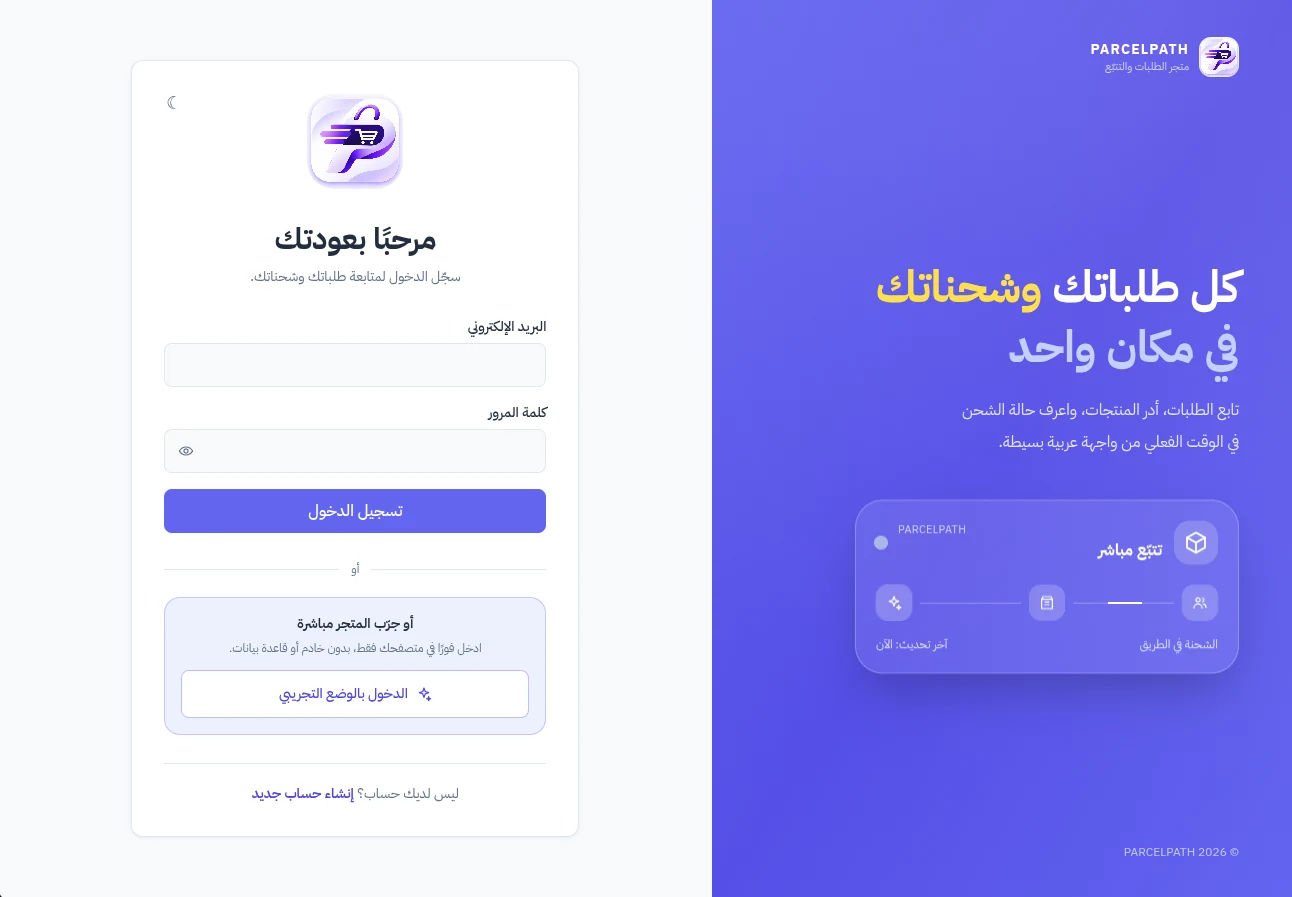
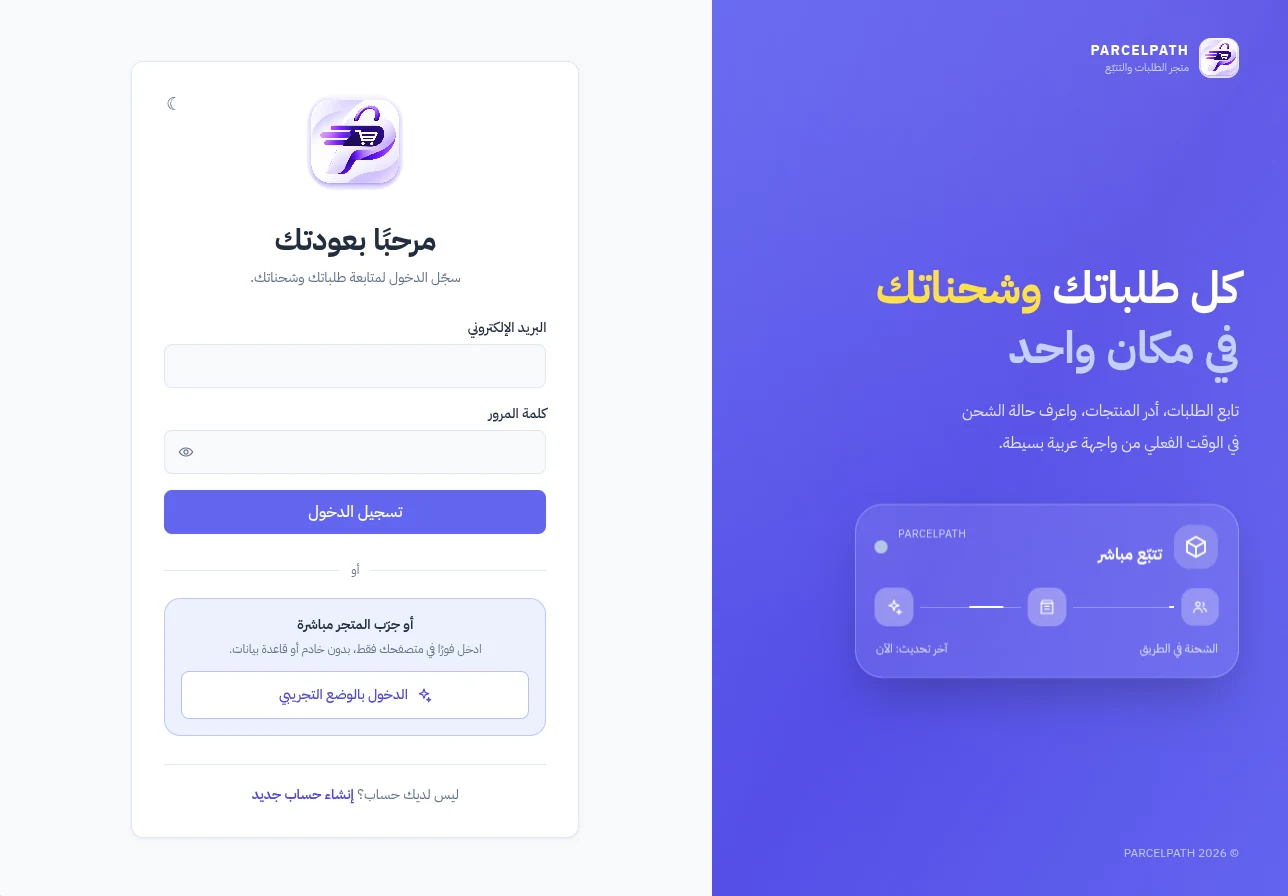
Add PARCELPATH stats and replace light screenshot

diff --git a/index.html b/index.html
@@ -288,9 +288,10 @@
 <div class="shot"><img class="lt" src="assets/orvia-light.webp" width="1638" height="999" alt="ORVIA grocery point of sale and inventory interface in light mode" loading="lazy" decoding="async"><img class="dk" src="assets/orvia-dark.webp" width="1638" height="999" alt="ORVIA grocery point of sale and inventory interface in dark mode" loading="lazy" decoding="async"></div></article>
 <article class="card rv"><h3>PARCELPATH</h3><p class="tag">An order and shipment tracking platform</p>
 <p>An Arabic RTL storefront and admin dashboard for orders and shipments. FastAPI handles products, inventory with row locks, idempotent order creation, a restricted status machine, and sales reports, while React and strict TypeScript power the interface.</p>
+<ul class="stats"><li><b>2</b>independent apps</li><li><b>7</b>UI areas</li><li><b>5</b>API routers</li></ul>
 <ul class="tiles"><li style="--i:0"><span class="ic"><svg aria-hidden="true"><use href="#ic-fastapi"/></svg></span>FastAPI</li><li style="--i:1"><span class="ic"><svg aria-hidden="true"><use href="#ic-postgres"/></svg></span>PostgreSQL</li><li style="--i:2"><span class="ic"><svg aria-hidden="true"><use href="#ic-react"/></svg></span>React</li><li style="--i:3"><span class="ic"><svg aria-hidden="true"><use href="#ic-ts"/></svg></span>TypeScript</li><li style="--i:4"><span class="ic"><svg aria-hidden="true"><use href="#ic-netlify"/></svg></span>Netlify</li></ul>
 <div class="card-links"><a style="margin-right:26px" href="https://github.com/leaderbasil/PARCELPATH" target="_blank" rel="noopener" data-track="github-parcelpath">View on GitHub</a><a href="https://parcelpath-demo.netlify.app/login" target="_blank" rel="noopener" data-track="parcelpath-demo">Open the live demo</a></div>
-<div class="shot"><img class="lt" src="assets/parcelpath-light.webp" width="1292" height="897" alt="PARCELPATH storefront in light mode with the Arabic interface" loading="lazy" decoding="async"><img class="dk" src="assets/parcelpath-dark.webp" width="1287" height="900" alt="PARCELPATH storefront in dark mode with the Arabic interface" loading="lazy" decoding="async"></div></article>
+<div class="shot"><img class="lt" src="assets/parcelpath-light.webp" width="1288" height="896" alt="PARCELPATH storefront in light mode with the Arabic interface" loading="lazy" decoding="async"><img class="dk" src="assets/parcelpath-dark.webp" width="1287" height="900" alt="PARCELPATH storefront in dark mode with the Arabic interface" loading="lazy" decoding="async"></div></article>
 <article class="card rv"><h3>RIPPLE</h3><p class="tag">An incremental build analysis engine in C++</p>
 <p>Works out which files need rebuilding after an edit, and in what order, without calling the compiler. It combines an include graph, content hashing, and Kahn’s algorithm, and reports dependency cycles instead of failing silently.</p>
 <ul class="tiles"><li style="--i:0"><span class="ic"><svg aria-hidden="true"><use href="#ic-cpp"/></svg></span>C++</li><li style="--i:1"><span class="ic"><svg aria-hidden="true"><use href="#ic-graph"/></svg></span>Graph algorithms</li></ul>
